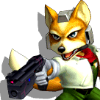
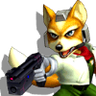
visual fixes - resized images, smaller tier for pm

diff --git a/tier/projectm.html b/tier/projectm.html
@@ -7,32 +7,32 @@
 </head>
 <body>
 	<h1>TIER LIST MAKER - PROJECT M</h1>
-	<div class="row">
-		<input type="text" value="S" class="tier1">
+	<div class="row rowPM">
+		<input type="text" value="S" class="tier1 levelPM">
 		<div class="tier sort tierPM"></div>
 	</div>
-	<div class="row">
-		<input type="text" value="A" class="tier2">
+	<div class="row rowPM">
+		<input type="text" value="A" class="tier2 levelPM">
 		<div class="tier sort tierPM"></div>
 	</div>
-	<div class="row">
-		<input type="text" value="B" class="tier3">
+	<div class="row rowPM">
+		<input type="text" value="B" class="tier3 levelPM">
 		<div class="tier sort tierPM"></div>
 	</div>
-	<div class="row">
-			<input type="text" value="C" class="tier4">
+	<div class="row rowPM">
+			<input type="text" value="C" class="tier4 levelPM">
 		<div class="tier sort tierPM"></div>
 	</div>
-	<div class="row">
-		<input type="text" value="D" class="tier5">
+	<div class="row rowPM">
+		<input type="text" value="D" class="tier5 levelPM">
 		<div class="tier sort tierPM"></div>
 	</div>
-	<div class="row">
-		<input type="text" value="E" class="tier6">
+	<div class="row rowPM">
+		<input type="text" value="E" class="tier6 levelPM">
 		<div class="tier sort tierPM"></div>
 	</div>
-	<div class="row last">
-		<input type="text" value="F" class="tier7">
+	<div class="row rowPM last">
+		<input type="text" value="F" class="tier7 levelPM">
 		<div class="tier sort tierPM"></div>
 	</div>
 

diff --git a/tier/style.css b/tier/style.css
@@ -19,6 +19,10 @@ h1 {
 	text-align: left;
 }
 
+.rowPM {
+	height: 56px;
+}
+
 .last {
 	border-bottom: solid 1px #dedede;
 }
@@ -34,6 +38,10 @@ input[type="text"] {
 	vertical-align: top;
 }
 
+input[type="text"].levelPM {
+	height: 54px;
+}
+
 .tier {
 	min-width: 1248px;
 	height: 96px;
@@ -41,7 +49,7 @@ input[type="text"] {
 }
 
 .tierPM {
-	padding-top: 20px;
+	height: 56px;
 }
 
 .placeholder4 {
@@ -90,6 +98,11 @@ input[type="text"] {
 #charM {
 	width: 900px;
 	margin: 10px auto;
+}
+
+#charM img, .melee div div img {
+	width: 96px;
+	height: 96px;
 }
 
 #charPM {

diff --git a/tier/melee.html b/tier/melee.html
@@ -5,7 +5,7 @@
 	<link href="https://fonts.googleapis.com/css?family=Roboto:400,100italic" rel="stylesheet" type="text/css">
     <link href="style.css" rel="stylesheet">
 </head>
-<body>
+<body class="melee">
 	<h1>TIER LIST MAKER - MELEE</h1>
 	<div class="row">
 		<input type="text" value="S" class="tier1">
